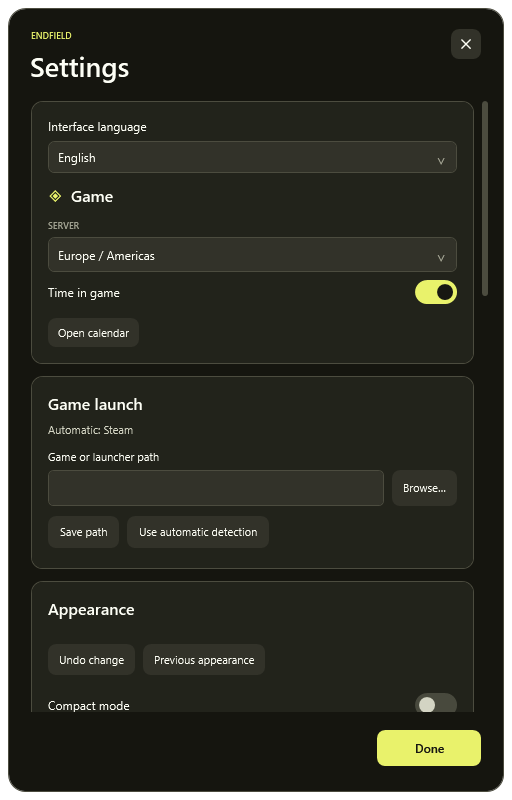
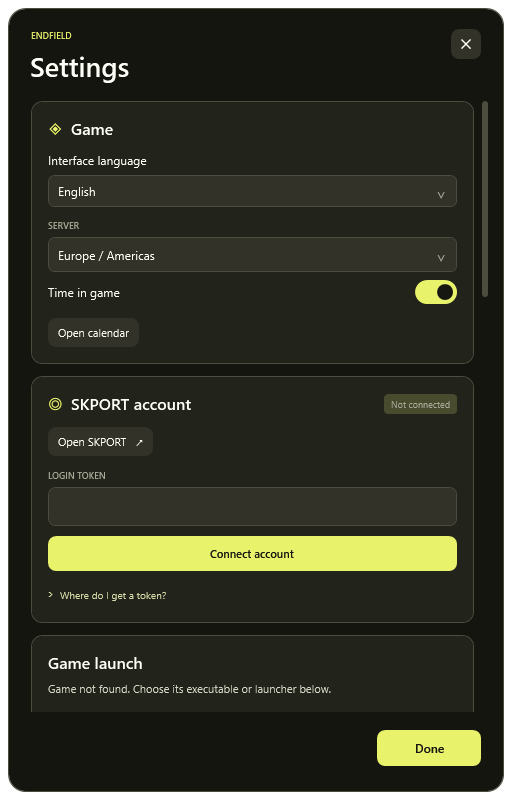
Organize Settings around account setup, launch and appearance

diff --git a/source/SettingsWindow.xaml b/source/SettingsWindow.xaml
@@ -81,41 +81,21 @@
         </Button>
       </Grid>
       <ScrollViewer x:Name="SettingsScroll" Style="{StaticResource SettingsScrollStyle}" Grid.Row="1" VerticalScrollBarVisibility="Auto" HorizontalScrollBarVisibility="Disabled" Margin="0,4,-7,0" Padding="0,0,7,0" PanningMode="VerticalOnly">
-        <StackPanel>
-          <Border CornerRadius="11" Background="{DynamicResource ThemeCardBrush}" BorderBrush="{DynamicResource ThemeBorderBrush}" BorderThickness="1" Padding="16" Margin="0,0,0,12">
-            <StackPanel>
+        <StackPanel x:Name="SettingsSections">
+          <Border x:Name="GameSettingsCard" CornerRadius="11" Background="{DynamicResource ThemeCardBrush}" BorderBrush="{DynamicResource ThemeBorderBrush}" BorderThickness="1" Padding="16" Margin="0,0,0,12">
+            <StackPanel x:Name="GameSettingsPanel">
               <StackPanel Orientation="Horizontal"><TextBlock Text="◈" FontSize="17" Foreground="{DynamicResource ThemeAccentBrush}" Margin="0,-1,8,0"/><TextBlock Text="{DynamicResource Locale.5c412a262086b9701cda0630}" FontSize="16" FontWeight="SemiBold"/></StackPanel>
               <TextBlock Text="{DynamicResource Locale.830ef117e1386dfc8c1c2220}" FontSize="9" FontWeight="SemiBold" Foreground="{DynamicResource ThemeMutedBrush}" Margin="0,12,0,6"/>
               <ComboBox x:Name="RegionSelector" Height="35" FontSize="12"/>
               <TextBlock x:Name="BannerCheckStatus" Visibility="Collapsed" FontSize="9" TextWrapping="Wrap" Foreground="{DynamicResource ThemeSubtleBrush}" Margin="0,8,0,0"/>
             </StackPanel>
           </Border>
-          <Border CornerRadius="11" Background="{DynamicResource ThemeCardBrush}" BorderBrush="{DynamicResource ThemeBorderBrush}" BorderThickness="1" Padding="16" Margin="0,0,0,12">
-            <StackPanel><TextBlock Text="{DynamicResource Locale.3907fa7f80722a6fc58cd8c1}" FontSize="16" FontWeight="SemiBold" Margin="0,0,0,12"/>
-              <Grid><TextBlock Text="{DynamicResource Locale.e82b2a16228150ae98c68d6e}" FontSize="12" VerticalAlignment="Center"/><CheckBox x:Name="CompactSwitch" Style="{StaticResource SettingsSwitch}" HorizontalAlignment="Right" AutomationProperties.Name="{DynamicResource Locale.e82b2a16228150ae98c68d6e}"/></Grid>
-              <Grid Margin="0,16,0,0"><TextBlock Text="{DynamicResource Locale.dea0eeb711575258adf05cc8}" FontSize="12" VerticalAlignment="Center"/><StackPanel Orientation="Horizontal" HorizontalAlignment="Right"><TextBox x:Name="ScaleInput" Style="{StaticResource NumberInput}" AutomationProperties.Name="{DynamicResource Locale.fdef2714b323f6e5c53dbd95}"/><TextBlock Text="%" FontSize="11" VerticalAlignment="Center" Margin="4,0,8,0" Foreground="{DynamicResource ThemeMutedBrush}"/><Button x:Name="ScaleReset" Content="100%" FontSize="10" Padding="7,4" ToolTip="{DynamicResource Locale.4f46a5564c03aed3aabcb648}" AutomationProperties.Name="{DynamicResource Locale.50f6c61ebc56874d973985fc}"/></StackPanel></Grid>
-              <Slider x:Name="ScaleSlider" Minimum="75" Maximum="130" SmallChange="1" LargeChange="10" TickFrequency="1" AutomationProperties.Name="{DynamicResource Locale.dea0eeb711575258adf05cc8}"/>
-              <Grid Margin="0,10,0,0"><TextBlock Text="{DynamicResource Locale.a6b74db5547fe5e4476c075e}" FontSize="12" VerticalAlignment="Center"/><StackPanel Orientation="Horizontal" HorizontalAlignment="Right"><TextBox x:Name="CompactScaleInput" Style="{StaticResource NumberInput}" AutomationProperties.Name="{DynamicResource Locale.bd6663494f396d1acfae3e35}"/><TextBlock Text="%" FontSize="11" VerticalAlignment="Center" Margin="4,0,8,0" Foreground="{DynamicResource ThemeMutedBrush}"/><Button x:Name="CompactScaleReset" Content="100%" FontSize="10" Padding="7,4" ToolTip="{DynamicResource Locale.f3d1b058e38f478f75cbc147}" AutomationProperties.Name="{DynamicResource Locale.e3e4f16bcddab9f9449257ee}"/></StackPanel></Grid>
-              <Slider x:Name="CompactScaleSlider" Minimum="75" Maximum="130" SmallChange="1" LargeChange="10" TickFrequency="1" AutomationProperties.Name="{DynamicResource Locale.a6b74db5547fe5e4476c075e}"/>
-              <Grid Margin="0,10,0,0"><TextBlock Text="{DynamicResource Locale.284935fb8743e4115c9aa962}" FontSize="12"/><TextBlock x:Name="OpacityValue" HorizontalAlignment="Right" FontSize="12" Foreground="{DynamicResource ThemeAccentBrush}"/></Grid>
-              <Slider x:Name="OpacitySlider" Minimum="60" Maximum="100" SmallChange="5" LargeChange="10" AutomationProperties.Name="{DynamicResource Locale.284935fb8743e4115c9aa962}"/>
-              <Grid Margin="0,10,0,0"><TextBlock Text="{DynamicResource Locale.d1ee49791db661d2f09abe73}" FontSize="12"/><TextBlock x:Name="PortraitOpacityValue" HorizontalAlignment="Right" FontSize="12" Foreground="{DynamicResource ThemeAccentBrush}"/></Grid>
-              <Slider x:Name="PortraitOpacitySlider" Minimum="0" Maximum="100" SmallChange="5" LargeChange="10" AutomationProperties.Name="{DynamicResource Locale.d1ee49791db661d2f09abe73}"/>
-              <Grid Margin="0,10,0,0"><TextBlock Text="{DynamicResource Locale.7ccddb32776365e77babf212}" FontSize="12" VerticalAlignment="Center"/><CheckBox x:Name="WatermarkSwitch" Style="{StaticResource SettingsSwitch}" HorizontalAlignment="Right" AutomationProperties.Name="{DynamicResource Locale.b0f8364b94303bb8102449da}"/></Grid>
-              <Expander x:Name="VisibleBlocks" Margin="0,12,0,0" Foreground="{DynamicResource ThemeTextBrush}"><Expander.Header><TextBlock Text="{DynamicResource Locale.a440fa3cd653e2c200affb7a}" FontSize="12" Foreground="{DynamicResource ThemeSoftAccentBrush}"/></Expander.Header>
-                <StackPanel Margin="0,11,0,0">
-                  <Grid><TextBlock Text="{DynamicResource Locale.17ccfa5b681e3e7b29316598}" FontSize="12" VerticalAlignment="Center"/><CheckBox x:Name="ShowUpdateSwitch" Style="{StaticResource SettingsSwitch}" HorizontalAlignment="Right" AutomationProperties.Name="{DynamicResource Locale.45a72117edd7f930ca88ba4e}"/></Grid>
-                  <Grid Margin="0,12,0,0"><TextBlock Text="{DynamicResource Locale.3e881a8fe08566d8678ef0f0}" FontSize="12" VerticalAlignment="Center"/><CheckBox x:Name="ShowNextSwitch" Style="{StaticResource SettingsSwitch}" HorizontalAlignment="Right" AutomationProperties.Name="{DynamicResource Locale.d8c2783b943e1ecfebbd35d3}"/></Grid>
-                  <Grid Margin="0,12,0,0"><TextBlock Text="{DynamicResource Locale.62eecd9cb29ba711ad61be19}" FontSize="12" VerticalAlignment="Center"/><CheckBox x:Name="ShowPlaySwitch" Style="{StaticResource SettingsSwitch}" HorizontalAlignment="Right" AutomationProperties.Name="{DynamicResource Locale.a70b243ee87ff01fe8c43706}"/></Grid>
-                </StackPanel>
-              </Expander>
-            </StackPanel>
-          </Border>
-          <Border CornerRadius="11" Background="{DynamicResource ThemeCardBrush}" BorderBrush="{DynamicResource ThemeBorderBrush}" BorderThickness="1" Padding="16" Margin="0,0,0,12">
-            <StackPanel>
+          <Border x:Name="AccountSettingsCard" CornerRadius="11" Background="{DynamicResource ThemeCardBrush}" BorderBrush="{DynamicResource ThemeBorderBrush}" BorderThickness="1" Padding="16" Margin="0,0,0,12">
+            <StackPanel x:Name="AccountSettingsPanel">
               <Grid>
-                <StackPanel Orientation="Horizontal"><TextBlock Text="◎" FontSize="17" Foreground="{DynamicResource ThemeAccentBrush}" Margin="0,-1,8,0"/><TextBlock Text="{DynamicResource Locale.017324d3fa0b5ec173188b26}" FontSize="16" FontWeight="SemiBold"/></StackPanel>
-                <Border HorizontalAlignment="Right" Background="{DynamicResource ThemeBadgeBrush}" CornerRadius="4" Padding="7,4" VerticalAlignment="Center"><TextBlock x:Name="AccountConnectionBadge" Text="{DynamicResource Locale.0303e182467081801f8b6148}" FontSize="9" Foreground="{DynamicResource ThemeMutedBrush}"/></Border>
+                <Grid.ColumnDefinitions><ColumnDefinition Width="*"/><ColumnDefinition Width="Auto"/></Grid.ColumnDefinitions>
+                <Grid Margin="0,0,10,0"><Grid.ColumnDefinitions><ColumnDefinition Width="Auto"/><ColumnDefinition Width="*"/></Grid.ColumnDefinitions><TextBlock Text="◎" FontSize="17" Foreground="{DynamicResource ThemeAccentBrush}" Margin="0,-1,8,0"/><TextBlock Grid.Column="1" Text="{DynamicResource Locale.017324d3fa0b5ec173188b26}" FontSize="16" FontWeight="SemiBold" TextWrapping="Wrap"/></Grid>
+                <Border Grid.Column="1" HorizontalAlignment="Right" Background="{DynamicResource ThemeBadgeBrush}" CornerRadius="4" Padding="7,4" VerticalAlignment="Center"><TextBlock x:Name="AccountConnectionBadge" Text="{DynamicResource Locale.0303e182467081801f8b6148}" FontSize="9" Foreground="{DynamicResource ThemeMutedBrush}"/></Border>
               </Grid>
               <Button x:Name="OpenSkportButton" Content="{DynamicResource Locale.75c30e65c55708a859f822bb}" HorizontalAlignment="Left" FontSize="11" Padding="10,7" Margin="0,12,0,13"/>
               <TextBlock Text="{DynamicResource Locale.5ee3f7371586a03f13071aaa}" FontSize="9" FontWeight="SemiBold" Foreground="{DynamicResource ThemeMutedBrush}" Margin="0,0,0,6"/>
@@ -142,8 +122,30 @@
               </Expander>
             </StackPanel>
           </Border>
-          <Border CornerRadius="11" Background="{DynamicResource ThemeCardBrush}" BorderBrush="{DynamicResource ThemeBorderBrush}" BorderThickness="1" Padding="16" Margin="0,0,0,3">
-            <StackPanel>
+          <Border x:Name="AppearanceSettingsCard" CornerRadius="11" Background="{DynamicResource ThemeCardBrush}" BorderBrush="{DynamicResource ThemeBorderBrush}" BorderThickness="1" Padding="16" Margin="0,0,0,12">
+            <StackPanel x:Name="AppearanceSettingsPanel"><TextBlock Text="{DynamicResource Locale.3907fa7f80722a6fc58cd8c1}" FontSize="16" FontWeight="SemiBold" Margin="0,0,0,12"/>
+              <StackPanel x:Name="LayoutModesPanel"><Grid><TextBlock Text="{DynamicResource Locale.e82b2a16228150ae98c68d6e}" FontSize="12" VerticalAlignment="Center"/><CheckBox x:Name="CompactSwitch" Style="{StaticResource SettingsSwitch}" HorizontalAlignment="Right" AutomationProperties.Name="{DynamicResource Locale.e82b2a16228150ae98c68d6e}"/></Grid></StackPanel>
+              <Grid Margin="0,16,0,0"><TextBlock Text="{DynamicResource Locale.dea0eeb711575258adf05cc8}" FontSize="12" VerticalAlignment="Center"/><StackPanel Orientation="Horizontal" HorizontalAlignment="Right"><TextBox x:Name="ScaleInput" Style="{StaticResource NumberInput}" AutomationProperties.Name="{DynamicResource Locale.fdef2714b323f6e5c53dbd95}"/><TextBlock Text="%" FontSize="11" VerticalAlignment="Center" Margin="4,0,8,0" Foreground="{DynamicResource ThemeMutedBrush}"/><Button x:Name="ScaleReset" Content="100%" FontSize="10" Padding="7,4" ToolTip="{DynamicResource Locale.4f46a5564c03aed3aabcb648}" AutomationProperties.Name="{DynamicResource Locale.50f6c61ebc56874d973985fc}"/></StackPanel></Grid>
+              <Slider x:Name="ScaleSlider" Minimum="75" Maximum="130" SmallChange="1" LargeChange="10" TickFrequency="1" AutomationProperties.Name="{DynamicResource Locale.dea0eeb711575258adf05cc8}"/>
+              <Grid Margin="0,10,0,0"><TextBlock Text="{DynamicResource Locale.a6b74db5547fe5e4476c075e}" FontSize="12" VerticalAlignment="Center"/><StackPanel Orientation="Horizontal" HorizontalAlignment="Right"><TextBox x:Name="CompactScaleInput" Style="{StaticResource NumberInput}" AutomationProperties.Name="{DynamicResource Locale.bd6663494f396d1acfae3e35}"/><TextBlock Text="%" FontSize="11" VerticalAlignment="Center" Margin="4,0,8,0" Foreground="{DynamicResource ThemeMutedBrush}"/><Button x:Name="CompactScaleReset" Content="100%" FontSize="10" Padding="7,4" ToolTip="{DynamicResource Locale.f3d1b058e38f478f75cbc147}" AutomationProperties.Name="{DynamicResource Locale.e3e4f16bcddab9f9449257ee}"/></StackPanel></Grid>
+              <Slider x:Name="CompactScaleSlider" Minimum="75" Maximum="130" SmallChange="1" LargeChange="10" TickFrequency="1" AutomationProperties.Name="{DynamicResource Locale.a6b74db5547fe5e4476c075e}"/>
+              <StackPanel x:Name="MiniScalePanel"/>
+              <Grid Margin="0,10,0,0"><TextBlock Text="{DynamicResource Locale.284935fb8743e4115c9aa962}" FontSize="12"/><TextBlock x:Name="OpacityValue" HorizontalAlignment="Right" FontSize="12" Foreground="{DynamicResource ThemeAccentBrush}"/></Grid>
+              <Slider x:Name="OpacitySlider" Minimum="60" Maximum="100" SmallChange="5" LargeChange="10" AutomationProperties.Name="{DynamicResource Locale.284935fb8743e4115c9aa962}"/>
+              <Grid x:Name="PortraitOpacityRow" Margin="0,10,0,0"><TextBlock Text="{DynamicResource Locale.d1ee49791db661d2f09abe73}" FontSize="12"/><TextBlock x:Name="PortraitOpacityValue" HorizontalAlignment="Right" FontSize="12" Foreground="{DynamicResource ThemeAccentBrush}"/></Grid>
+              <Slider x:Name="PortraitOpacitySlider" Minimum="0" Maximum="100" SmallChange="5" LargeChange="10" AutomationProperties.Name="{DynamicResource Locale.d1ee49791db661d2f09abe73}"/>
+              <Grid x:Name="WatermarkSettingRow" Margin="0,10,0,0"><TextBlock Text="{DynamicResource Locale.7ccddb32776365e77babf212}" FontSize="12" VerticalAlignment="Center"/><CheckBox x:Name="WatermarkSwitch" Style="{StaticResource SettingsSwitch}" HorizontalAlignment="Right" AutomationProperties.Name="{DynamicResource Locale.b0f8364b94303bb8102449da}"/></Grid>
+              <Expander x:Name="VisibleBlocks" Margin="0,12,0,0" Foreground="{DynamicResource ThemeTextBrush}"><Expander.Header><TextBlock Text="{DynamicResource Locale.a440fa3cd653e2c200affb7a}" FontSize="12" Foreground="{DynamicResource ThemeSoftAccentBrush}"/></Expander.Header>
+                <StackPanel Margin="0,11,0,0">
+                  <Grid><TextBlock Text="{DynamicResource Locale.17ccfa5b681e3e7b29316598}" FontSize="12" VerticalAlignment="Center"/><CheckBox x:Name="ShowUpdateSwitch" Style="{StaticResource SettingsSwitch}" HorizontalAlignment="Right" AutomationProperties.Name="{DynamicResource Locale.45a72117edd7f930ca88ba4e}"/></Grid>
+                  <Grid Margin="0,12,0,0"><TextBlock Text="{DynamicResource Locale.3e881a8fe08566d8678ef0f0}" FontSize="12" VerticalAlignment="Center"/><CheckBox x:Name="ShowNextSwitch" Style="{StaticResource SettingsSwitch}" HorizontalAlignment="Right" AutomationProperties.Name="{DynamicResource Locale.d8c2783b943e1ecfebbd35d3}"/></Grid>
+                  <Grid Margin="0,12,0,0"><TextBlock Text="{DynamicResource Locale.62eecd9cb29ba711ad61be19}" FontSize="12" VerticalAlignment="Center"/><CheckBox x:Name="ShowPlaySwitch" Style="{StaticResource SettingsSwitch}" HorizontalAlignment="Right" AutomationProperties.Name="{DynamicResource Locale.a70b243ee87ff01fe8c43706}"/></Grid>
+                </StackPanel>
+              </Expander>
+            </StackPanel>
+          </Border>
+          <Border x:Name="DesktopSettingsCard" CornerRadius="11" Background="{DynamicResource ThemeCardBrush}" BorderBrush="{DynamicResource ThemeBorderBrush}" BorderThickness="1" Padding="16" Margin="0,0,0,12">
+            <StackPanel x:Name="DesktopSettingsPanel">
               <StackPanel Orientation="Horizontal" Margin="0,0,0,11"><TextBlock Text="▣" FontSize="16" Foreground="{DynamicResource ThemeAccentBrush}" Margin="0,0,8,0"/><TextBlock Text="{DynamicResource Locale.4df9939944a7b324991dfbe4}" FontSize="16" FontWeight="SemiBold"/></StackPanel>
               <Grid><Grid.ColumnDefinitions><ColumnDefinition Width="*"/><ColumnDefinition Width="Auto"/></Grid.ColumnDefinitions>
                 <TextBlock Text="{DynamicResource Locale.20cd3751f574e2322a44cee8}" FontSize="12" VerticalAlignment="Center"/>
@@ -154,8 +156,8 @@
               <Grid Margin="0,15,0,0"><TextBlock Text="{DynamicResource Locale.79ee9903f7dd8a121d50a3d9}" FontSize="12"/><TextBlock x:Name="ToggleHotkeyLabel" HorizontalAlignment="Right" FontSize="11" Foreground="{DynamicResource ThemeSoftAccentBrush}"/></Grid>
             </StackPanel>
           </Border>
-          <Border CornerRadius="11" Background="{DynamicResource ThemeCardBrush}" BorderBrush="{DynamicResource ThemeBorderBrush}" BorderThickness="1" Padding="16" Margin="0,12,0,3">
-            <StackPanel><TextBlock Text="{DynamicResource Locale.788011833a5a0f22db90c91e}" FontSize="16" FontWeight="SemiBold" Margin="0,0,0,12"/>
+          <Border x:Name="NotificationsSettingsCard" CornerRadius="11" Background="{DynamicResource ThemeCardBrush}" BorderBrush="{DynamicResource ThemeBorderBrush}" BorderThickness="1" Padding="16" Margin="0,0,0,12">
+            <StackPanel x:Name="NotificationsSettingsPanel"><TextBlock Text="{DynamicResource Locale.788011833a5a0f22db90c91e}" FontSize="16" FontWeight="SemiBold" Margin="0,0,0,12"/>
               <Grid><TextBlock Text="{DynamicResource Locale.7e2d391bba385335d82d2b6f}" FontSize="12" VerticalAlignment="Center"/><CheckBox x:Name="SanityNotifySwitch" Style="{StaticResource SettingsSwitch}" HorizontalAlignment="Right" AutomationProperties.Name="{DynamicResource Locale.56d89231673b438770747335}"/></Grid>
               <Grid x:Name="SanityNoticeOptions" Margin="0,10,0,0"><Grid.ColumnDefinitions><ColumnDefinition Width="*"/><ColumnDefinition Width="43"/><ColumnDefinition Width="Auto"/></Grid.ColumnDefinitions><ComboBox x:Name="SanityNoticeMode" Height="30" FontSize="11" Margin="0,0,10,0" AutomationProperties.Name="{DynamicResource Locale.1e612983990b025daf21750e}"/><TextBox x:Name="SanityNoticeValue" Grid.Column="1" Style="{StaticResource NumberInput}" AutomationProperties.Name="{DynamicResource Locale.02a8dd4d09936b829d0ee390}"/><TextBlock x:Name="SanityNoticeUnit" Grid.Column="2" VerticalAlignment="Center" FontSize="11" Margin="8,0,0,0" Foreground="{DynamicResource ThemeMutedBrush}"/></Grid>
               <Grid Margin="0,15,0,0"><TextBlock Text="{DynamicResource Locale.8107bcbbcc36543fa273772f}" FontSize="12" VerticalAlignment="Center"/><CheckBox x:Name="MaintenanceNotifySwitch" Style="{StaticResource SettingsSwitch}" HorizontalAlignment="Right" AutomationProperties.Name="{DynamicResource Locale.9e8d614c3c81f3214971fe1c}"/></Grid>

diff --git a/source/StudioSettings.cs b/source/StudioSettings.cs
@@ -31,26 +31,28 @@ namespace EndfieldWidget {
       System.Windows.Automation.AutomationProperties.SetName(combo,title);combo.SelectionChanged+=(s,e)=>{if(combo.SelectedIndex>=0)changed(combo.SelectedIndex);};parent.Children.Add(combo);return combo;
     }
     void WireStudioSettings(Window dialog) {
-      var appearance=(StackPanel)((Slider)dialog.FindName("OpacitySlider")).Parent;
+      var appearance=(StackPanel)dialog.FindName("AppearanceSettingsPanel");
       var extra=SettingsSection(appearance,L.T("Modes and appearance"));
       var compact=(CheckBox)dialog.FindName("CompactSwitch");CheckBox micro=null;
-      micro=StudioSwitch(dialog,extra,"MicroSwitch",L.T("Mini mode"),config.MicroMode,v=>{SetWidgetMode(v?"micro":"full");compact.IsChecked=config.Compact;});
+      micro=StudioSwitch(dialog,(StackPanel)dialog.FindName("LayoutModesPanel"),"MicroSwitch",L.T("Mini mode"),config.MicroMode,v=>{SetWidgetMode(v?"micro":"full");compact.IsChecked=config.Compact;});
       compact.Click+=(s,e)=>micro.IsChecked=config.MicroMode;
-      StudioSlider(dialog,extra,"MicroScaleSlider",L.T("Mini mode scale"),config.MicroScale*100,75,130,v=>{config.MicroScale=v/100;if(config.MicroMode)ApplyLayout(true);SavePosition();});
+      StudioSlider(dialog,(StackPanel)dialog.FindName("MiniScalePanel"),"MicroScaleSlider",L.T("Mini mode scale"),config.MicroScale*100,75,130,v=>{config.MicroScale=v/100;if(config.MicroMode)ApplyLayout(true);SavePosition();});
       string[] presets={"soft","strict","minimal"};StudioChoice(dialog,extra,"PresetSelector",L.T("Style"),new[]{L.T("Soft"),L.T("Strict"),L.T("Minimal")},Array.IndexOf(presets,config.DesignPreset),i=>{config.DesignPreset=presets[i];ApplyDesignPreset();ApplyLayout(true);SavePosition();});
       string[] indicators={"bar","ring","numbers"};StudioChoice(dialog,extra,"SanityStyleSelector",L.T("Sanity indicator"),new[]{L.T("Bar"),L.T("Ring"),L.T("Numbers only")},Array.IndexOf(indicators,config.SanityStyle),i=>{config.SanityStyle=indicators[i];UpdateSanityStyle();ApplyLayout(false);SavePosition();});
       StudioSlider(dialog,extra,"TextScaleSlider",L.T("Text size"),config.TextScale*100,85,120,v=>{config.TextScale=v/100;ApplyTextScale();ApplyLayout(true);SavePosition();});
       Slider idle=null;StudioSwitch(dialog,extra,"HoverFadeSwitch",L.T("Dim when not hovered"),config.FadeWhenIdle,v=>{config.FadeWhenIdle=v;if(idle!=null)idle.IsEnabled=v;ApplyHoverOpacity();SavePosition();});
       idle=StudioSlider(dialog,extra,"IdleOpacitySlider",L.T("Idle opacity"),config.IdleOpacity*100,30,100,v=>{config.IdleOpacity=v/100;ApplyHoverOpacity();SavePosition();});idle.IsEnabled=config.FadeWhenIdle;
-      WireCropSettings(dialog,SettingsSection(appearance,L.T("Operator framing")));
-      var game=(StackPanel)((ComboBox)dialog.FindName("RegionSelector")).Parent;
+      var framing=SettingsSection(appearance,L.T("Operator framing"));
+      foreach(string name in new[]{"PortraitOpacityRow","PortraitOpacitySlider","WatermarkSettingRow"}){var control=(FrameworkElement)dialog.FindName(name);appearance.Children.Remove(control);framing.Children.Add(control);}
+      WireCropSettings(dialog,framing);
+      var game=(StackPanel)dialog.FindName("GameSettingsPanel");
       StudioSwitch(dialog,game,"SessionTimeSwitch",L.T("Time in game"),config.ShowSessionTime,v=>{config.ShowSessionTime=v;PaintSession(DateTimeOffset.UtcNow);SavePosition();});
       var calendar=RegisterControl(dialog,"OpenCalendarButton",new Button{Content=L.T("Open calendar"),FontSize=11,Padding=new Thickness(10,7,10,7),Margin=new Thickness(0,10,0,0),HorizontalAlignment=HorizontalAlignment.Left});calendar.Click+=(s,e)=>ShowCalendar();game.Children.Add(calendar);
-      var placement=(StackPanel)((Grid)((CheckBox)dialog.FindName("PositionLockSwitch")).Parent).Parent;
+      var placement=(StackPanel)dialog.FindName("DesktopSettingsPanel");
       WirePlacementSettings(dialog,SettingsSection(placement,L.T("Precise placement")));WireShortcutSettings(dialog,SettingsSection(placement,L.T("Keyboard shortcuts")));
     }
     void WireCropSettings(Window dialog,StackPanel parent) {
-      var operatorName=RegisterControl(dialog,"CropOperatorName",SettingsLabel(Find<TextBlock>("OperatorName").Text));operatorName.FontWeight=FontWeights.SemiBold;parent.Children.Add(operatorName);
+      var operatorName=RegisterControl(dialog,"CropOperatorName",SettingsLabel(Find<TextBlock>("OperatorName").Text));operatorName.FontWeight=FontWeights.SemiBold;operatorName.Margin=new Thickness(0,12,0,0);parent.Children.Add(operatorName);
       bool compact=false,updating=false;Slider zoom=null,x=null,y=null;
       Action sync=()=>{
         if(updating || string.IsNullOrEmpty(currentArtKey))return;updating=true;

diff --git a/source/AppearanceUndo.cs b/source/AppearanceUndo.cs
@@ -28,12 +28,12 @@ namespace EndfieldWidget {
       return false;
     }
     void WireContinuitySettings(Window dialog) {
-      var appearance=(StackPanel)((Slider)dialog.FindName("OpacitySlider")).Parent;
-      var actions=new StackPanel{Orientation=Orientation.Horizontal,Margin=new Thickness(0,13,0,0)};
+      var appearance=(StackPanel)dialog.FindName("AppearanceSettingsPanel");
+      var actions=new WrapPanel{Margin=new Thickness(0,13,0,0)};
       var undo=RegisterControl(dialog,"UndoAppearanceButton",new Button{Content=L.T("Undo change"),Padding=new Thickness(11,8,11,8),FontSize=11,ToolTip=L.T("Undo the last appearance change · Ctrl+Z")});
       var restore=RegisterControl(dialog,"RestoreAppearanceButton",new Button{Content=L.T("Previous appearance"),Padding=new Thickness(11,8,11,8),FontSize=11,Margin=new Thickness(8,0,0,0),ToolTip=L.T("Restore appearance from backup")});
-      actions.Children.Add(undo);actions.Children.Add(restore);appearance.Children.Insert(1,actions);
-      var feedback=RegisterControl(dialog,"AppearanceFeedback",SettingsLabel(""));feedback.TextWrapping=TextWrapping.Wrap;feedback.FontSize=10;feedback.Margin=new Thickness(0,5,0,0);appearance.Children.Insert(2,feedback);
+      actions.Children.Add(undo);actions.Children.Add(restore);appearance.Children.Add(actions);
+      var feedback=RegisterControl(dialog,"AppearanceFeedback",SettingsLabel(""));feedback.TextWrapping=TextWrapping.Wrap;feedback.FontSize=10;feedback.Margin=new Thickness(0,5,0,0);appearance.Children.Add(feedback);
       settingsBackupAvailable=Storage.ReadBackup()!=null;
       Action buttons=()=>{undo.IsEnabled=appearanceHistory!=null && appearanceHistory.CanUndo;restore.IsEnabled=settingsBackupAvailable;};syncUndoButton=buttons;buttons();
       undo.Click+=(s,e)=>{feedback.Text=UndoAppearance()?L.T("Change undone."):"";buttons();};
@@ -53,8 +53,8 @@ namespace EndfieldWidget {
       dialog.PreviewKeyDown+=(s,e)=>{
         if(e.Key==Key.Z && Keyboard.Modifiers==ModifierKeys.Control && !Within<TextBoxBase>(e.OriginalSource) && !Within<PasswordBox>(e.OriginalSource)){e.Handled=true;feedback.Text=UndoAppearance()?L.T("Change undone."):"";}
       };
-      var root=(StackPanel)((ScrollViewer)dialog.FindName("SettingsScroll")).Content;
-      var card=new Border{CornerRadius=new CornerRadius(11),BorderThickness=new Thickness(1),Padding=new Thickness(16),Margin=new Thickness(0,12,0,3)};card.SetResourceReference(Border.BackgroundProperty,"ThemeCardBrush");card.SetResourceReference(Border.BorderBrushProperty,"ThemeBorderBrush");
+      var root=(StackPanel)dialog.FindName("SettingsSections");
+      var card=RegisterControl(dialog,"AboutSettingsCard",new Border{CornerRadius=new CornerRadius(11),BorderThickness=new Thickness(1),Padding=new Thickness(16)});card.SetResourceReference(Border.BackgroundProperty,"ThemeCardBrush");card.SetResourceReference(Border.BorderBrushProperty,"ThemeBorderBrush");
       var about=new StackPanel();card.Child=about;root.Children.Add(card);var title=SettingsLabel(L.T("About"));title.FontSize=16;title.FontWeight=FontWeights.SemiBold;about.Children.Add(title);
       var version=RegisterControl(dialog,"BuildVersionLabel",SettingsLabel("Endfield  "+BuildInfo.Version));version.Margin=new Thickness(0,10,0,0);about.Children.Add(version);
       var save=RegisterControl(dialog,"SaveReportButton",new Button{Content=L.T("Save report"),HorizontalAlignment=HorizontalAlignment.Left,Padding=new Thickness(11,8,11,8),FontSize=11,Margin=new Thickness(0,10,0,0)});about.Children.Add(save);

diff --git a/source/GameLaunchSettings.cs b/source/GameLaunchSettings.cs
@@ -11,9 +11,9 @@ namespace EndfieldWidget {
   partial class Widget {
     Task gameSettingsTask=Task.FromResult(0);
     void WireGameLaunchSettings(Window dialog) {
-      var parent=(StackPanel)((ScrollViewer)dialog.FindName("SettingsScroll")).Content;
+      var parent=(StackPanel)dialog.FindName("SettingsSections");
       var content=new StackPanel();
-      var card=new Border{Child=content,CornerRadius=new CornerRadius(11),BorderThickness=new Thickness(1),Padding=new Thickness(16),Margin=new Thickness(0,0,0,12)};
+      var card=RegisterControl(dialog,"GameLaunchSettingsCard",new Border{Child=content,CornerRadius=new CornerRadius(11),BorderThickness=new Thickness(1),Padding=new Thickness(16),Margin=new Thickness(0,0,0,12)});
       card.SetResourceReference(Border.BackgroundProperty,"ThemeCardBrush");card.SetResourceReference(Border.BorderBrushProperty,"ThemeBorderBrush");
       var title=SettingsLabel(L.T("Game launch"));title.FontSize=16;title.FontWeight=FontWeights.SemiBold;content.Children.Add(title);
       var status=RegisterControl(dialog,"GameLaunchStatus",SettingsLabel(""));status.FontSize=11;status.TextWrapping=TextWrapping.Wrap;status.Margin=new Thickness(0,8,0,12);status.SetResourceReference(TextBlock.ForegroundProperty,"ThemeSecondaryTextBrush");content.Children.Add(status);
@@ -27,7 +27,7 @@ namespace EndfieldWidget {
       var automatic=RegisterControl(dialog,"GamePathAutomatic",new Button{Content=L.T("Use automatic detection"),FontSize=11,Padding=new Thickness(12,7,12,7),MinHeight=32,Margin=new Thickness(0,0,0,4)});
       actions.Children.Add(save);actions.Children.Add(automatic);content.Children.Add(actions);
       var message=RegisterControl(dialog,"GamePathMessage",SettingsLabel(""));message.Visibility=Visibility.Collapsed;message.FontSize=11;message.TextWrapping=TextWrapping.Wrap;message.Margin=new Thickness(0,7,0,0);message.SetResourceReference(TextBlock.ForegroundProperty,"ThemeSoftAccentBrush");content.Children.Add(message);
-      parent.Children.Insert(1,card);
+      parent.Children.Insert(parent.Children.IndexOf((Border)dialog.FindName("AccountSettingsCard"))+1,card);
       int generation=0;bool closed=false,busy=false;dialog.Closed+=(s,e)=>{closed=true;generation++;};
       Func<Task> refresh=async()=>{
         int request=++generation;string path=config.GameExecutablePath??"";status.Text=L.T("Searching for the game…");status.ToolTip=null;

diff --git a/source/LanguageSettings.cs b/source/LanguageSettings.cs
@@ -10,10 +10,10 @@ using Forms=System.Windows.Forms;
 namespace EndfieldWidget {
   partial class Widget {
     void WireLanguageSettings(Window dialog) {
-      var parent=(StackPanel)((ComboBox)dialog.FindName("RegionSelector")).Parent;
-      var section=new StackPanel{Margin=new Thickness(0,0,0,12)};var label=SettingsLabel(L.T("Interface language"));label.Margin=new Thickness(0,0,0,7);section.Children.Add(label);
+      var parent=(StackPanel)dialog.FindName("GameSettingsPanel");
+      var section=new StackPanel{Margin=new Thickness(0,12,0,0)};var label=SettingsLabel(L.T("Interface language"));label.Margin=new Thickness(0,0,0,7);section.Children.Add(label);
       var choice=RegisterControl(dialog,"LanguageSelector",new ComboBox{ItemsSource=L.Languages,DisplayMemberPath="Name",SelectedValuePath="Code",SelectedValue=config.InterfaceLanguage,MinHeight=32,FontSize=12,HorizontalAlignment=HorizontalAlignment.Stretch});
-      System.Windows.Automation.AutomationProperties.SetName(choice,L.T("Interface language"));section.Children.Add(choice);parent.Children.Insert(0,section);
+      System.Windows.Automation.AutomationProperties.SetName(choice,L.T("Interface language"));section.Children.Add(choice);parent.Children.Insert(1,section);
       choice.SelectionChanged+=(s,e)=>{
         var selected=choice.SelectedItem as LanguageChoice;string next=selected==null?null:selected.Code;if(next==null || next==config.InterfaceLanguage)return;
         if(refreshBusy){choice.SelectedValue=config.InterfaceLanguage;var feedback=(TextBlock)dialog.FindName("SettingsFeedback");feedback.Text=L.T("Wait for the current refresh to finish.");feedback.Visibility=Visibility.Visible;return;}

diff --git a/CHANGELOG.md b/CHANGELOG.md
@@ -2,6 +2,7 @@
 
 ## 1.1.0
 
+- Organize Settings with SKPORT account connection directly after language and server selection, followed by game launch. Group the three layout scales together and keep artwork controls in one section.
 - Keep Play, calendar, refresh and settings controls visible without requiring hover or keyboard focus, including Play in compact and mini layouts. Only the close control remains hidden until hover or keyboard focus; per-layout Play visibility settings remain available.
 - Remove animated transitions and their Settings switch. Layouts, opacity changes, operator artwork and calendar navigation now update immediately.
 - Detect installed Endfield copies automatically, including games in additional Steam libraries. Prefer Steam when both Steam and standalone versions are installed.

diff --git a/README.md b/README.md
@@ -34,7 +34,7 @@ Actual application views in English with sample account and event data. Click a 
 
 **Settings** — language, server, layout scale and background opacity.
 
-<a href="docs/screenshots/settings.png"><img src="docs/screenshots/settings.png" width="460" alt="Settings showing the language, game server and appearance controls"></a>
+<a href="docs/screenshots/settings.png"><img src="docs/screenshots/settings.png" width="460" alt="Settings with language and server selection, SKPORT account connection and game launch options"></a>
 
 </details>
 
